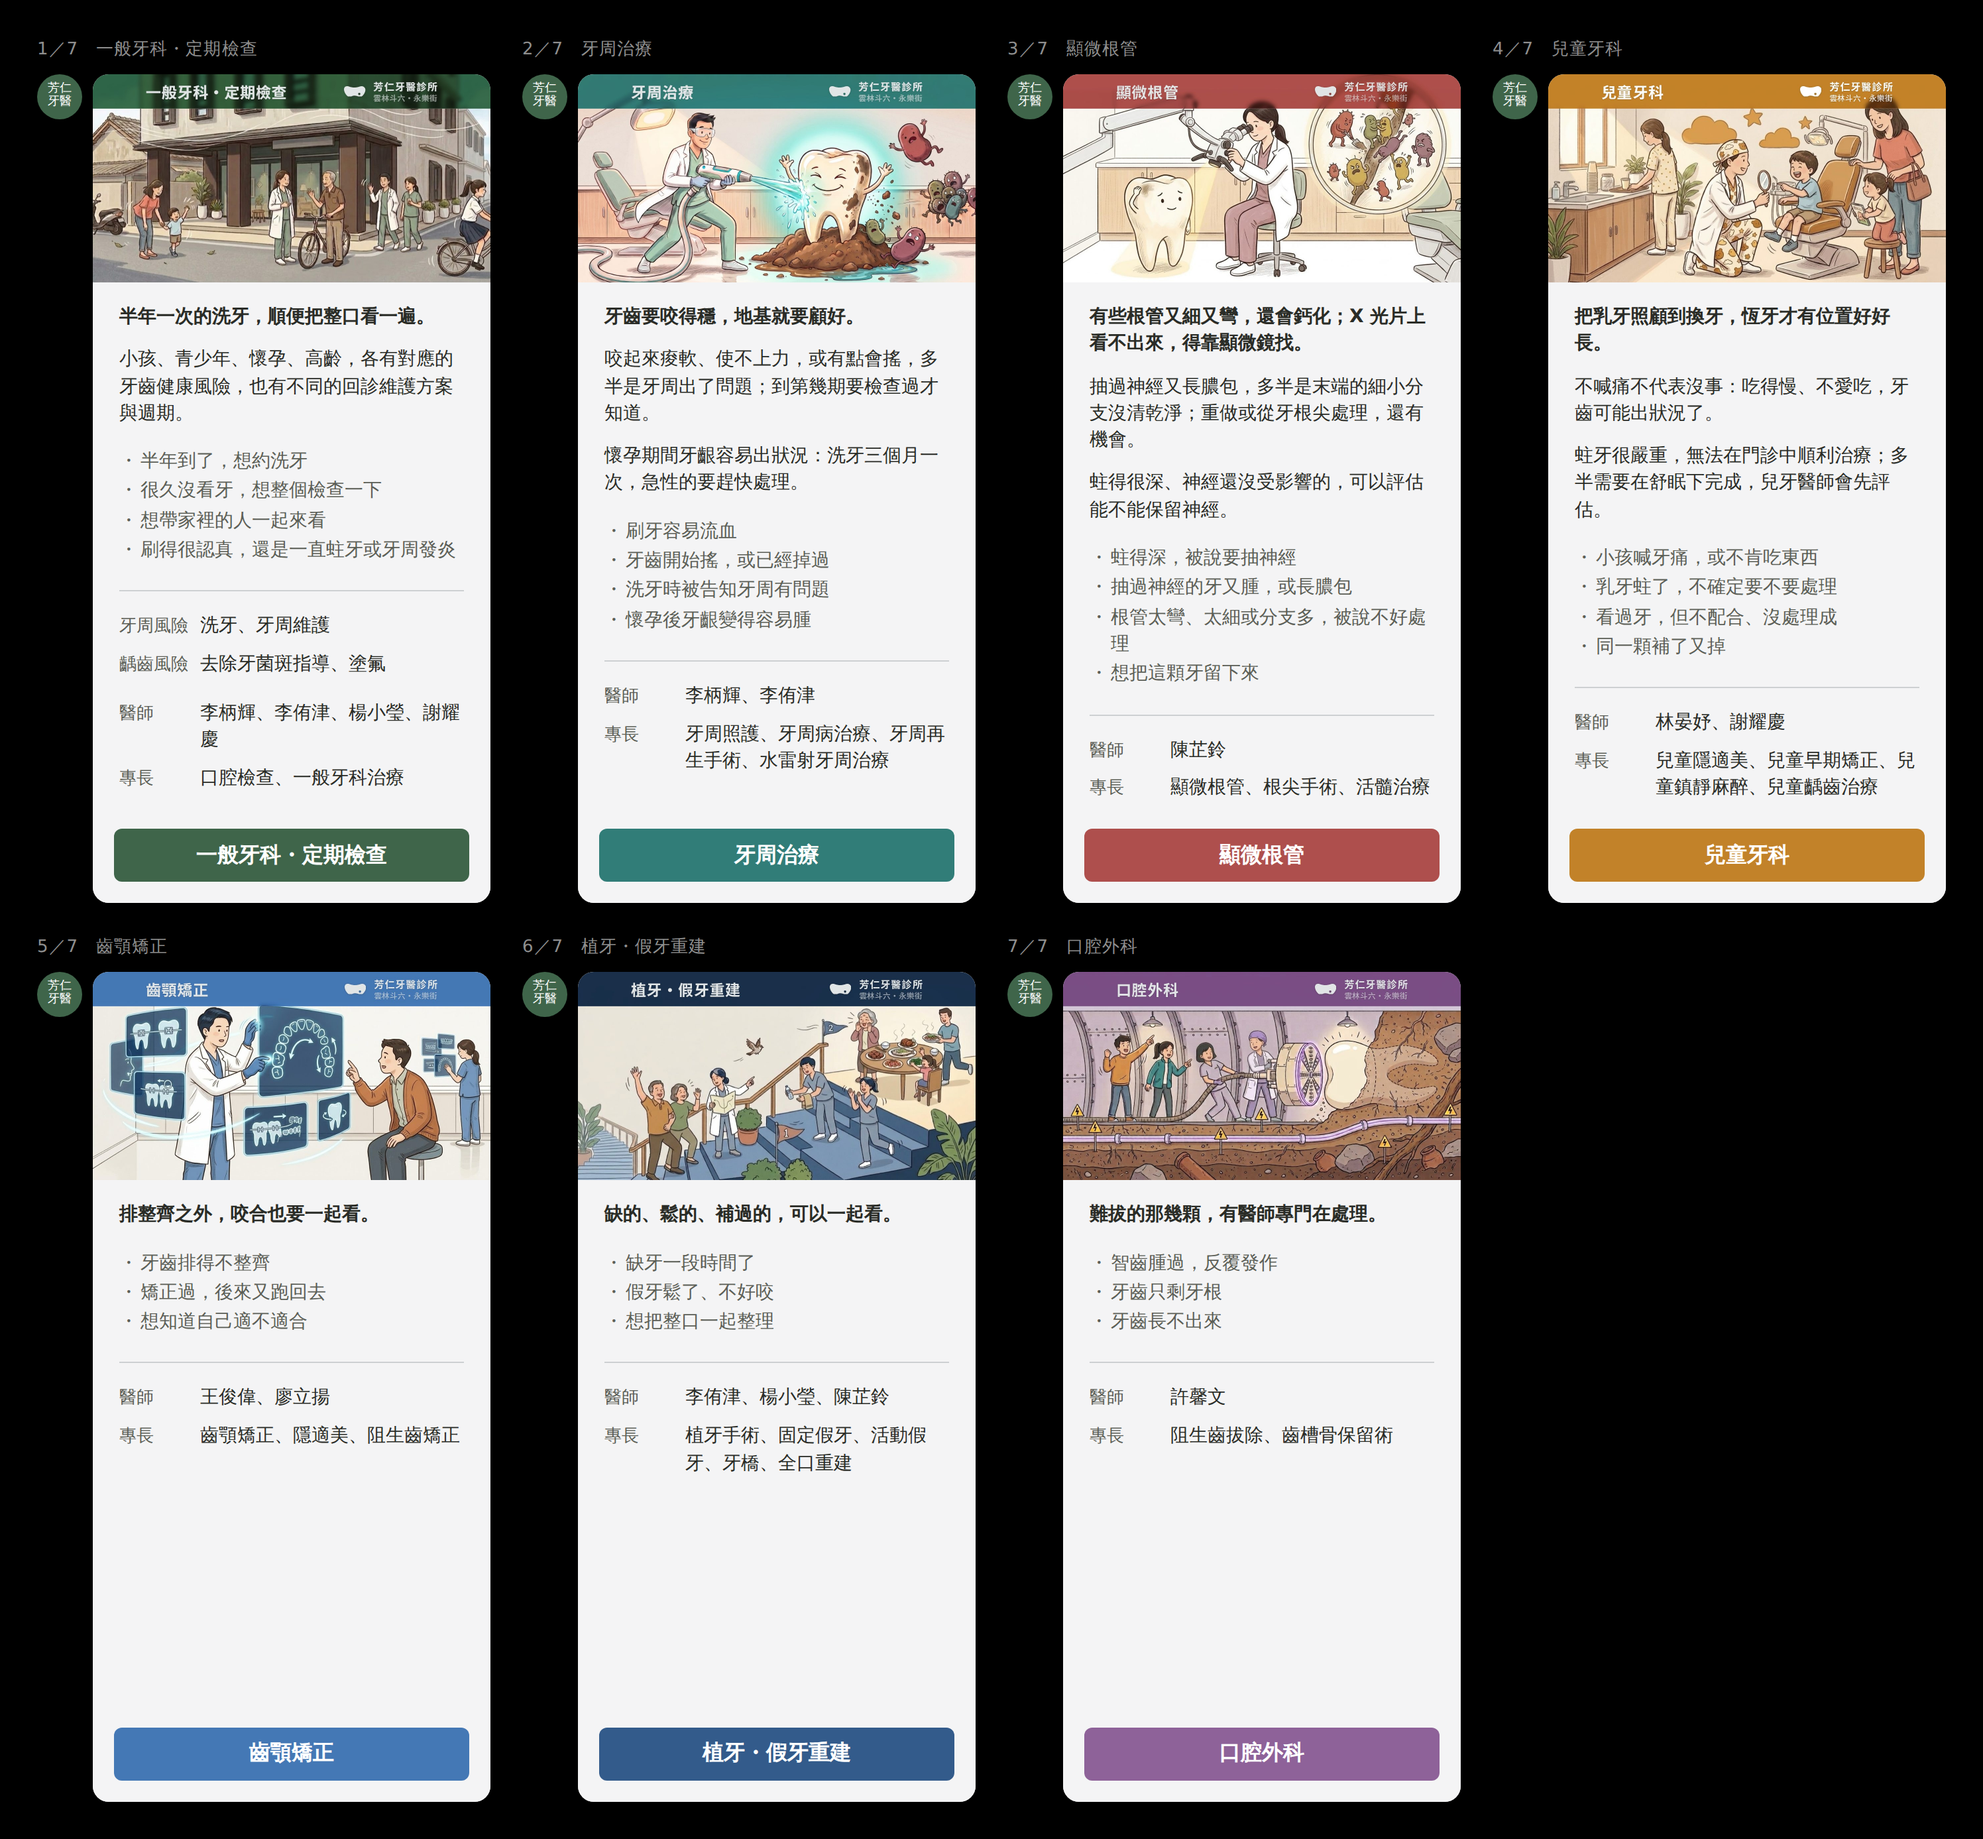
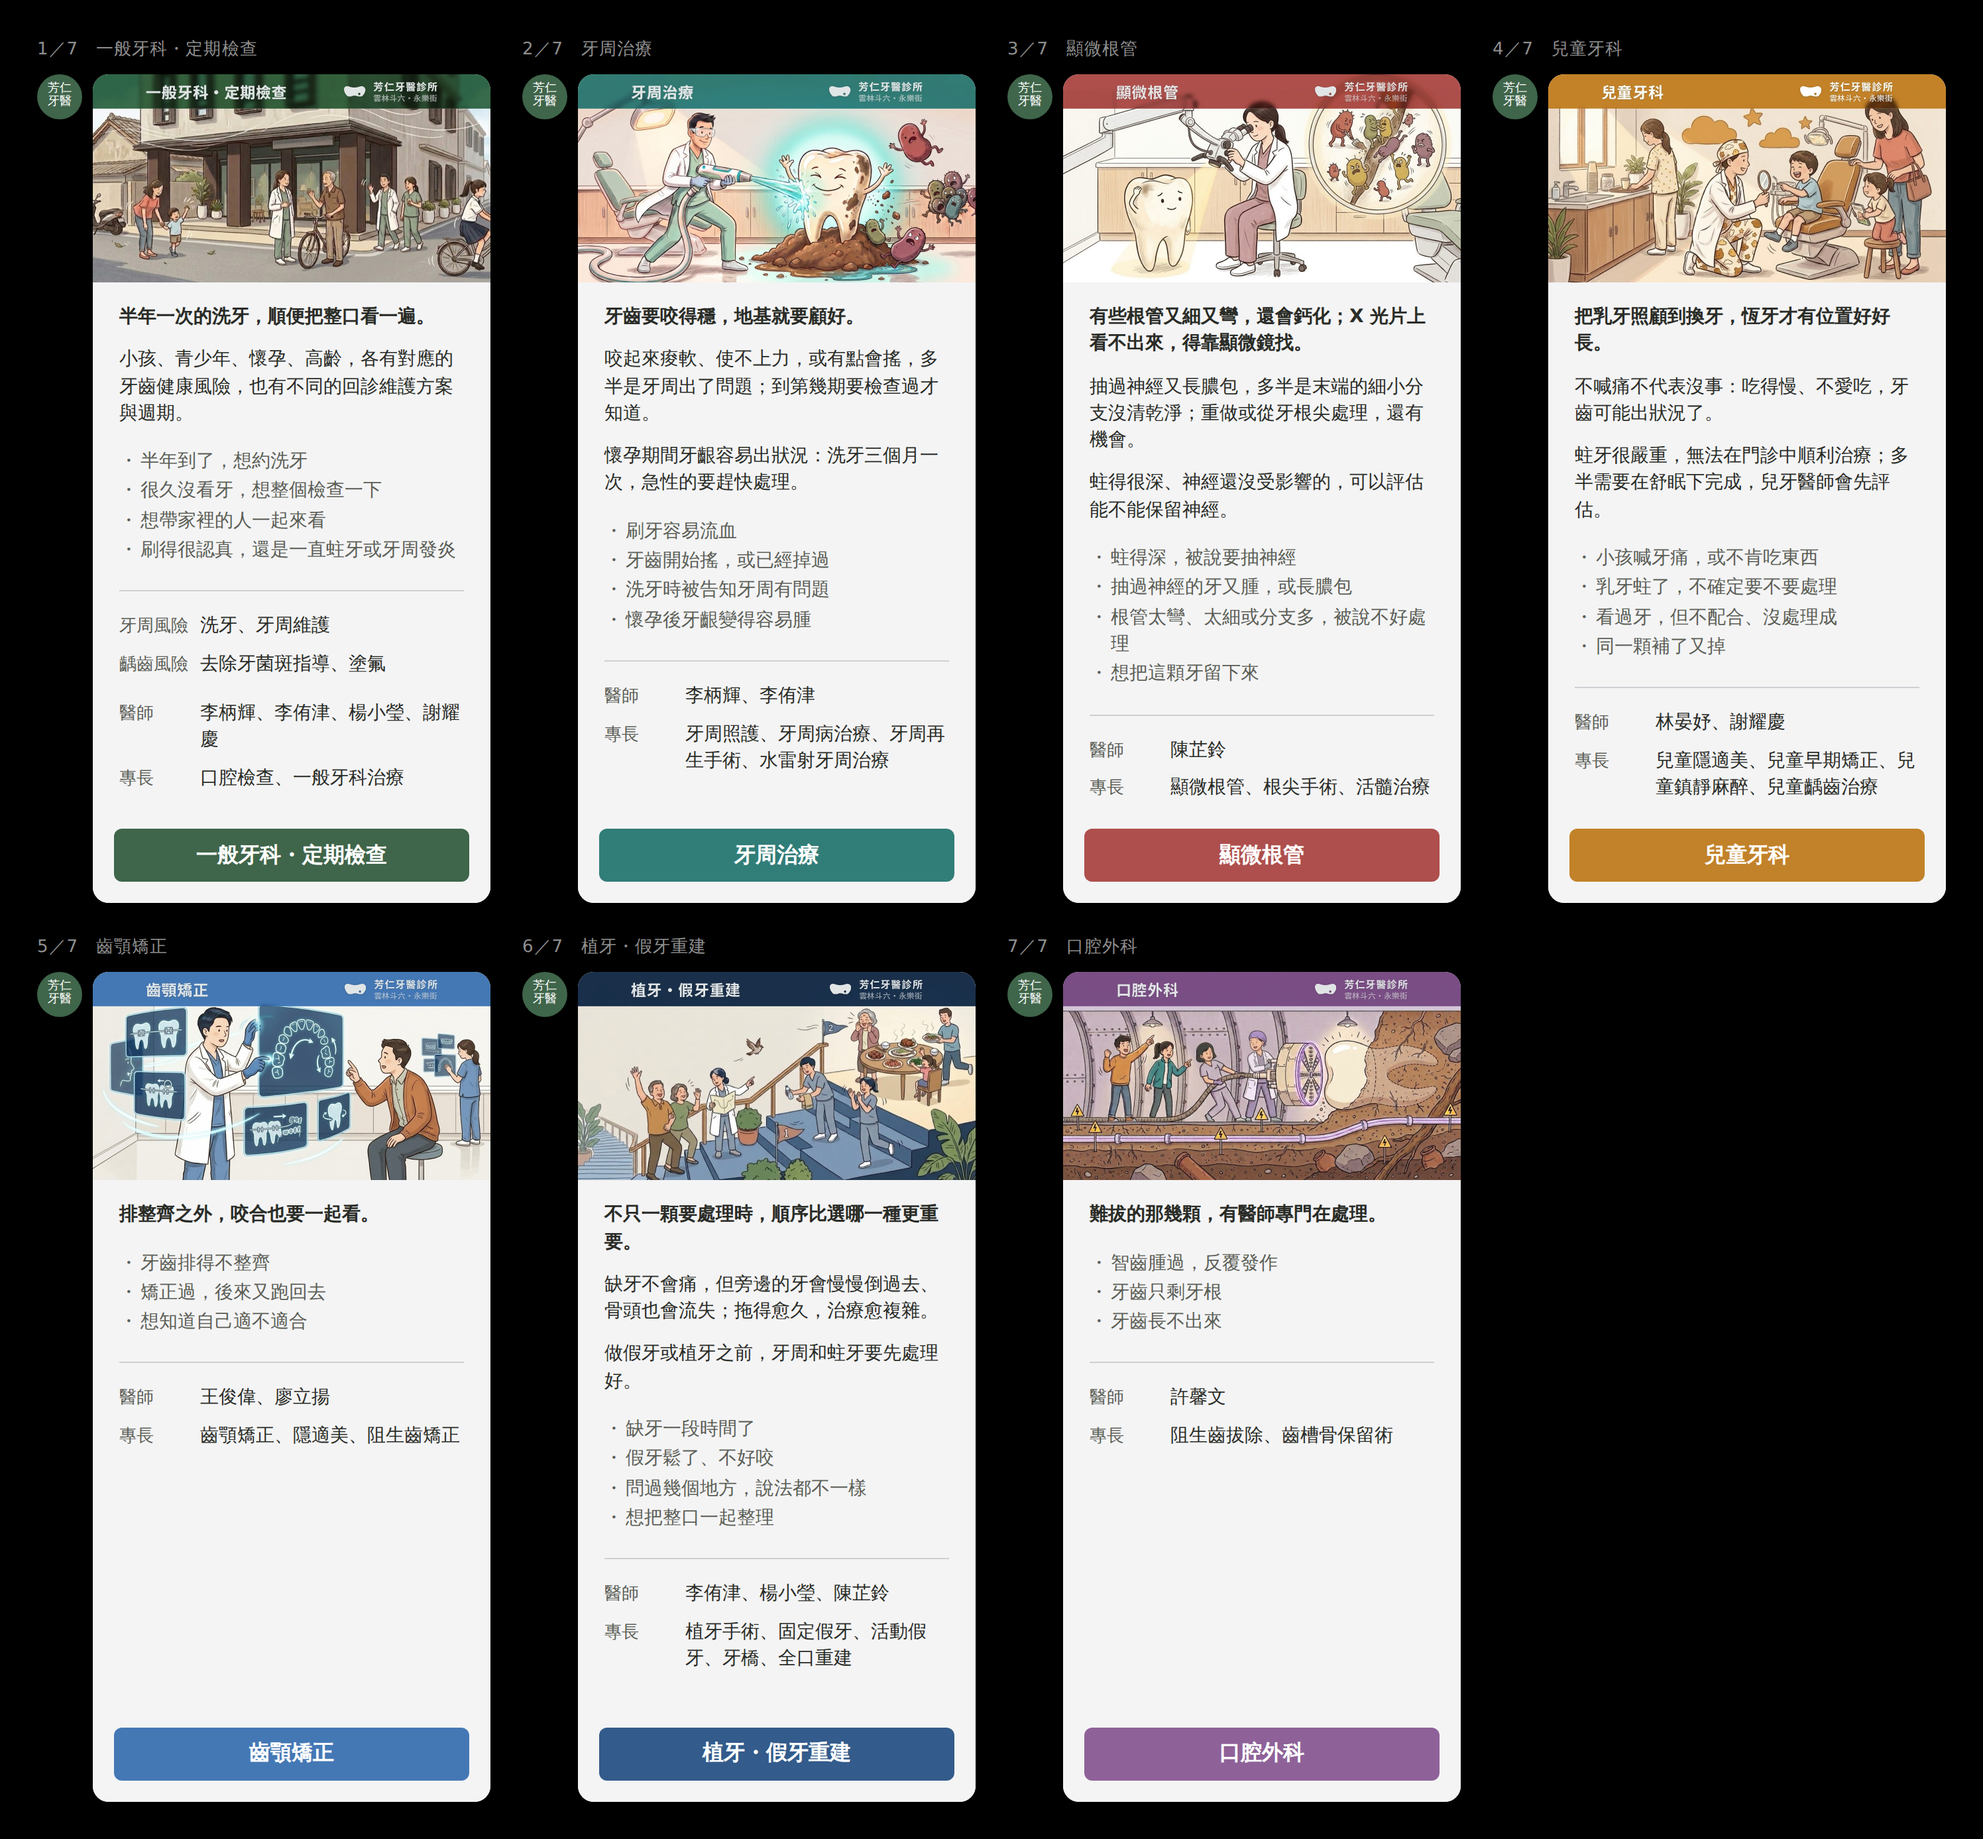
植牙・假牙重建整張重寫：順序比選哪一種更重要
第一版 open「缺的、鬆的、補過的，可以一起看」過不了那條通則 ——「可以一起看」
一般牙科照樣講得通。

定案 open「不只一顆要處理時，順序比選哪一種更重要」← lead「從哪裡開始」＋
flowTitle「順序大概是這樣」＋cases④「說法都不一樣」。這是這一頁本來就有的立場
（COPY.md：著陸頁給順序，文章給比較），一次做三件事：回答從哪裡開始、解掉
說法不一的焦慮、把重點從「植牙 vs 假牙」移開（最容易變成推銷的地方）。

note① ←〈缺牙之後〉的「不處理會發生什麼」（鄰牙傾倒、齒槽骨吸收）＋那篇的
「這個過程通常是無痛的」。這是這一科病人自己解讀不了的訊號：不會痛所以以為
沒事，可是一直在變。只寫「治療愈複雜」沒寫「愈貴」——錢寫在卡片上會變成壓力，
而且自費結構還沒問到。

note② ← flow［打底］。「地基」留給牙周那張，兩張都用會把比喻弄鈍。這一句同時
是反推銷的：想做植牙的人，第一步不是植牙。

全口重建只留在專長那一欄，卡片上不多提（同活髓那條）。版面沒有再長。

Claude-Session: https://claude.ai/code/session_01QMa36HgXCp2rYEV7ykbWqK

Changed region(s): [[0.3108, 0.651, 0.4662, 0.8991]]

diff --git a/drafts/line-oa/README.md b/drafts/line-oa/README.md
@@ -197,7 +197,7 @@ node drafts/line-oa/flex-preview.mjs topics-carousel.json     # → preview-topi
 | 顯微根管 | 有些根管又細又彎，還會鈣化 —— X 光片上看不出來，得靠顯微鏡找。<br>（另有兩句 `note`：長膿包／活髓） | flow［清得到］＋〈生物陶瓷〉＋使用者 08-27 給的事實 |
 | 兒童牙科 | 乳牙撐到換牙，恆牙才排得進來。<br>（另有兩句 `note`：不喊痛不代表沒事／舒眠） | flow［留位置］＋groups①reply＋flow［先試過］ |
 | 齒顎矯正 | 排整齊之外，咬合也要一起看。 | stance |
-| 植牙・假牙重建 | 缺的、鬆的、補過的，可以一起看。 | cases②＋flow［看全口］ |
+| 植牙・假牙重建 | 不只一顆要處理時，順序比選哪一種更重要。<br>（另有兩句 `note`：缺牙不會痛／先打底） | lead＋flowTitle＋〈缺牙之後〉那一篇 |
 | 口腔外科 | 難拔的那幾顆，有醫師專門在處理。 | stance＋close |
 
 ⚠ 四句刻意沒有那樣寫：
@@ -668,3 +668,40 @@ CLAUDE.md 第九節那張表裡**還沒問到**的事，不要自己補。
 
 **和誰的分界**：品牌顧問管**感受**，臨床顧問管**後果**；查核師管**站上有沒有**，
 臨床顧問管**診間會怎樣**。六條紅線全部寫在 TEAM.md 第一節第 12 號那一段。
+
+### 第十七輪：植牙・假牙重建整張重寫（2026-08-27）
+
+第一版 open「缺的、鬆的、補過的，可以一起看」**過不了第十一輪那條通則** ——
+「可以一起看」一般牙科照樣講得通。
+
+定案：
+
+> **不只一顆要處理時，順序比選哪一種更重要。**
+> 缺牙不會痛，但旁邊的牙會慢慢倒過去、骨頭也會流失；拖得愈久，治療愈複雜。
+> 做假牙或植牙之前，牙周和蛀牙要先處理好。
+> ・缺牙一段時間了　・假牙鬆了、不好咬　・問過幾個地方，說法都不一樣　・想把整口一起整理
+
+**open** ← lead「從哪裡開始？」＋ flowTitle「要整理的話，順序大概是這樣」
+＋ cases④「說法都不一樣」。
+⚠⚠ 「**順序比選哪一種更重要**」是這一頁本來就有的立場 —— COPY.md 記著這一科的
+設計決定是「**著陸頁給順序，文章給比較**」。它一次做三件事：回答「從哪裡開始」、
+解掉「說法都不一樣」的焦慮、**把重點從「植牙 vs 假牙」移開**（那正是最容易變成推銷的地方）。
+
+**note①** ← 〈缺牙之後〉（`posts/missing-tooth/`）的「不處理會發生什麼」：
+鄰牙傾倒、對咬牙伸長、齒槽骨吸收、咀嚼負擔轉移；那一篇寫著
+「**這個過程通常是無痛的**」與「**拖延的成本不是零，而是把日後的治療推向更複雜、
+更貴的選項**」。
+⚠⚠ 這是這一科「**病人自己解讀不了的訊號**」（同牙周的痠軟、兒牙的不喊痛）：
+**不會痛，所以他以為沒事，可是一直在變。**
+⚠ 只寫「治療愈複雜」，**沒有寫「愈貴」** —— 那一篇有寫，但錢寫在卡片上會變成壓力
+（品牌紅線：不推銷），而且自費結構是那張表裡還沒問到的事。
+
+**note②** ← flow［打底］。
+⚠ 「地基」那兩個字**留給牙周那一張**，這裡只講順序 —— 兩張都用會把同一個比喻弄鈍。
+⚠⚠ 這一句同時是**反推銷**的：**想做植牙的人，第一步不是植牙。**
+
+⚠ **`全口重建` 只留在 `專長` 那一欄**，卡片上一個字都不多提 ——
+同活髓那條：適應症有限、金額高的處置，不在卡片上招客。
+這一張的兩句 note 反而是把人往「先打底」帶。
+
+⚠ 版面沒有再長（1387 CSS px）。
